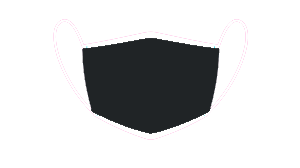
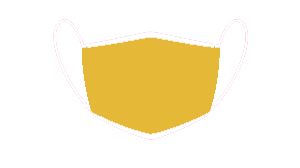
css

Changed region(s): [[0.27, 0.2083, 0.75, 0.8036]]

diff --git a/css/style.css b/css/style.css
@@ -8,15 +8,39 @@
   }
   body{
     font-family: montserrat;
-    background-color: #F2F2F2;
+    background-color: white;
+  }
+  .moh{
+    background-color: #4A4A6B;
+    margin-top: -50px;
+    height: 400px;
+  }
+  .moh p{
+    color: white;
+    float: left;
+    font-size: 45px;
+    position: relative;
+    margin-left:250px ;
+   margin-top: 30px;
+  }
+  .moh span{
+    color: #E6B822;
+    float: left;
+    margin-top: 200px;
+    margin-left: 300px;
+    font-size: 40px;
+  }
+  .moh img{
+    width: 500px;
+    padding-right: 20px;
   }
   nav{
-    background: #8C8C8C;
+    background: #4A4A6B;
     height: 80px;
     width: 100%;
   }
   h1{
-    color: #737373;
+    color: black;
     margin-right: 80px;
   }
   .stat{
@@ -54,50 +78,67 @@
    margin-right: 3%;
    float: left;
    width: calc(80% / 3);
-   height: fit-content;
+   height: 480px;
    border-radius: 20px;
-   box-shadow: 1px 1px 1px 1px #BFBFBF;
+   box-shadow: 1px 1px 1px 1px #4a4a6b42;
    margin-top: -100px;
-   
+   padding-bottom: 100px;
+   filter: brightness(60%);
  }
- .home div:hover{
-  box-shadow: 4px 4px 4px 4px #BFBFBF;
+ .home .var:hover{
+  box-shadow: 4px 4px 4px 4px #4a4a6b42;
+  filter: brightness(100%);
   transition: .8s;
  }
   .home div img{
-   border-start-start-radius: 20px;
-   border-start-end-radius: 20px;
-   float: left; 
-  width: 100%;
-  padding-bottom: 10px;
-  height: 400px; 
+  border-radius: 20px;
+   margin-left: 20%;
+   margin-right: 20%;
+   margin-top: 5%;
+  width: 60%;
+  height: 250px; 
+  
 }
-
 
 h2{
   display: inline;
   padding: 20px 20px 20px 20px;
-  color: #737373;
+  color: black;
 }
-.home .style{
-  height: 500px;
- 
-}
+
 .home .style p{
   font-size: 20px;
   padding: 20px 20px 20px 20px;
 }
+.home .style h2{
+  font-size: 30px;
+ margin-left: 22%;
+ margin-right: 22%;
+  
+}
+.home .style img{
+  height: 330px;
+  width: 400px;
+  margin-left: 30%;
+  margin-right: 30%;
+}
 .home .style{
-  width: 50%;
- text-align: center;
+  width: 80%;
+ margin-left: 10%;
+ margin-right: 10%;
+ 
+ height: 800px;
+ filter: brightness(100%);
+box-shadow: 0px 0px 0px 0px;
 }
 .one{
  font-size: 18px;
 }
  .home div p{
    padding-top: 20px;
-   color: #8C8C8C;
+   color: black;
    padding: 20px 20px 20px 20px;
+   font-size: 18px;
  }
  
  .home{
@@ -105,18 +146,10 @@ h2{
    position: relative;
 top: 100px;
  }
-button{
-  float: right;
-  width: 90px;
-  height: 40px;
-  margin-top: -10px;
-  background-color: #6C733D;
-  color: white;
-  font-size: 17px;
-}
+
   nav ul{
     float: right;
-    margin-right: 20px;
+    margin-right: 80px;
   }
   nav ul li{
     display: inline-block;
@@ -131,7 +164,7 @@ button{
     text-transform: uppercase;
   }
   .a#active,.a:hover{
-    background: #202426;
+    background: #E6B822;
     transition: .5s;
   }
   .checkbtn{
@@ -159,14 +192,46 @@ button{
     .home .style{
       height: 600px;
       padding:5px ;
+      
     }
-    .home div{
+    .home .style img{
+      width: 200px;
+      height: 200px;
+    }
+    .home .style h2{
+      font-size: 25px;
+      margin-left: 0;
+      margin-right: 0;
+    }
+    .home .var{
       padding:5px ;
+    float: none;
+    width: 70%;
+     margin: 150px;
+     margin-top: -100px;
+     margin-left: 15%;
+     margin-right: 15%;
     }
     .home .style p{
       font-size: 16px;
       padding: 20px 20px 20px 20px;
     }
+     .moh img{
+    width: 250px;
+    }
+    .moh{
+      height: 240px;
+    }
+     .moh p{
+      font-size: 20px;
+      margin-left: 100px;
+    }
+    .moh span{
+      font-size: 17px;
+      margin-left: 110px;
+      margin-top: 130px;
+    }
+    
     .checkbtn{
       display: block;
     }
@@ -190,11 +255,12 @@ button{
       position: fixed;
       width: 100%;
       height: 100vh;
-      background: #6C733D;
+      background: #4A4A6B;
       top: 80px;
       left: -100%;
       text-align: center;
       transition: all .5s;
+      z-index: 100;
     }
     nav ul li{
       display: block;
@@ -206,7 +272,7 @@ button{
     }
     .a:hover,.a#active{
       background: none;
-      color: #202426;
+      color: #E6B822;
     }
     #check:checked ~ ul{
       left: 0;

diff --git a/index.html b/index.html
@@ -24,39 +24,39 @@
         <li><a class="a" href="#">عن المطور</a></li>
       </ul>
     </nav><br><br>
-    <h1> اشخاص نجوا من فيروس كورونا :</h1><br><br><br>
+    <div class="moh"><br><br>
+      <img src="img/undraw_medical_research_qg4d.svg" >
+      <p>هل فيروس كورونا قاتل ؟<br>هل فيروس كورونا لا علاج له ؟</p>
+    <span>تعرف على الاجوبة من موقعنا</span>
+    </div><br><br><br>
+    
+      <h1> اشخاص نجوا من فيروس كورونا :</h1><br><br><br>
+    
     <div class="home"> 
 
-      <div class="ic" >
-<img  src="img/New folder (2)/download.jpg">
+      <div class="var">
+<img  src="img/New folder (2)/download.jpg"><br><br>
 <h2>رجل شفي من كورونا يحكي عن تجربة المرض </h2>
 <p>حكى رجل من كوريا الجنوبية تجربته المريرة والمفصلة مع فيروس كورونا المستجد (كوفيد 19) الذي أصيب به، في فبراير الماضي، ثم تعافى من المرض الخطير بشكل كامل.
-
-  وبحسب صحيفة "واشنطن بوست"، فإن كيم سونغ هوان، البالغ 47 عاما، كان يظن أنه يعاني إرهاقا عابرا فقط، ورجح أن يكون مصابا بنزلة برد، واستبعد بشكل تام أن يكون الأمر متعلقا بفيروس كورونا، لاسيما أنه لم يسافر إلى الصين في الآونة
+...
   <a class="one" href="story 1.html">إقرأ المزيد</a>
 </p>
   
 </div><br><br>
-<div style="margin-top: -130px;" class="ic" >
-  <img src="img/New folder (2)/_111509991_karen3.jpg">
-  <h2>كارين ، حامل في الشهر السادس بطفلها الرابع.</h2>
+<div class="var" style="margin-top: -130px;">
+  <img src="img/New folder (2)/_111509991_karen3.jpg"><br><br>
+  <h2>كارين ،  بطفلها الرابع.</h2>
   <p>دأت الأم البالغة من العمر 39 عاما تعاني من سعال مزمن وحمى خلال الأسبوع الثاني من شهر مارس/آذار، لكن موظفي المستشفى كانوا قلقين بشأن نقلها للعلاج فيها. وفي اليوم الحادي عشر، تغير الوضع.
-   قالت كارين مانرين "اتصلت برقم الطوارئ 999 وكان تنفسي سيئا جدا إلى درجة أن سيارة الإسعاف حضرت إلى منزلنا في غضون دقائق. كنت عمليا أجد صعوبة في التنفس، ولهذا وضعوا أنابيب الأكسجين في أنفي فورا
-    ...
+  ...
    <a class="one" href="story 2.html">إقرأ المزيد</a> 
   </p>
   </div><br><br>
-  <div style="margin-top: -170px;" class="ic" >
-    <img  src="img/New folder (2)/_111512342_jessie2.jpg">
+  <div class="var" style="margin-top: -170px;">
+    <img  src="img/New folder (2)/_111512342_jessie2.jpg"><br><br>
     <h2>"كنت أريد من يساعدني"</h2>
     
-    <p>علمت جيسي كلارك، من شيفيلد، أنها ستكون معرضة للخطر إذا أصيبت بوباء كوفيد-19 لأنها تعاني من مرض مزمن في الكلى وقبل خمس سنوات أزيلت إحدى كليتيها.
-
-      وعندما بدأت جيسي، البالغة من العمر 26 عاما، في السعال وأصبحت تعاني من صعوبة في التنفس بشكل متزايد، استبد بها القلق. وفي غضون أيام، كانت تجد صعوبة في المشي.
-      
-      وقالت "عانيت أيضا الكثير من الألم في أضلعي، وظهري وبطني. شعرت وكأني تعرضت للضرب".
-      
-             
+    <p>علمت جيسي كلارك، من شيفيلد، أنها ستكون معرضة للخطر إذا أصيبت بوباء كوفيد-19 لأنها تعاني من مرض مزمن في الكلى وقبل خمس سنوات أزيلت إحدى كليتيها.   
+        ...     
       <a class="one" href="story 3.html">إقرأ المزيد</a>
     </p>
     </div>

diff --git a/story 2.html b/story 2.html
@@ -26,8 +26,9 @@
     </nav><br><br><br>
     <div class="home">
     <div class="style">
+      <h2 style="margin-right: 5%;margin-left: 5%;">كارين مانرين، وهي من هينري باي في مقاطعة كنت، حامل في الشهر السادس بطفلها الرابع.</h2>
         <img src="img/New folder (2)/_111509991_karen3.jpg">
-        <h2>كارين مانرين، وهي من هينري باي في مقاطعة كنت، حامل في الشهر السادس بطفلها الرابع.</h2>
+
         <p>بدأت الأم البالغة من العمر 39 عاما تعاني من سعال مزمن وحمى خلال الأسبوع الثاني من شهر مارس/آذار، لكن موظفي المستشفى كانوا قلقين بشأن نقلها للعلاج فيها. وفي اليوم الحادي عشر، تغير الوضع.
 
 

diff --git a/story 1.html b/story 1.html
@@ -24,11 +24,12 @@
         <li><a class="a" href="#">عن المطور</a></li>
       </ul>
     </nav><br><br><br>
-    <center>
+    
     <div  class="home">
     <div class="style">
-        <img   src="img/New folder (2)/download.jpg">
         <h2>رجل شفي من كورونا يحكي عن تجربة المرض وآلامه</h2>
+        <img   src="img/New folder (2)/download.jpg">
+      
        <p >حكى رجل من كوريا الجنوبية تجربته المريرة والمفصلة مع فيروس كورونا المستجد (كوفيد 19) الذي أصيب به، في فبراير الماضي، ثم تعافى من المرض الخطير بشكل كامل.
 
 
@@ -50,7 +51,7 @@
           
         </div>
     </div>
-  </center>
+  
     <script src="js/script.js"></script>
     <section></section>
   </body>

diff --git a/story 3.html b/story 3.html
@@ -26,8 +26,9 @@
     </nav><br><br><br>
     <div class="home">
         <div class="style">
+          <h2 style="margin-left: 35%;margin-right: 35%;">"كنت أريد من يساعدني"</h2>
             <img   src="img/New folder (2)/_111512342_jessie2.jpg">
-            <h2>"كنت أريد من يساعدني"</h2>
+            
           <p>
             علمت جيسي كلارك، من شيفيلد، أنها ستكون معرضة للخطر إذا أصيبت بوباء كوفيد-19 لأنها تعاني من مرض مزمن في الكلى وقبل خمس سنوات أزيلت إحدى كليتيها.
             
